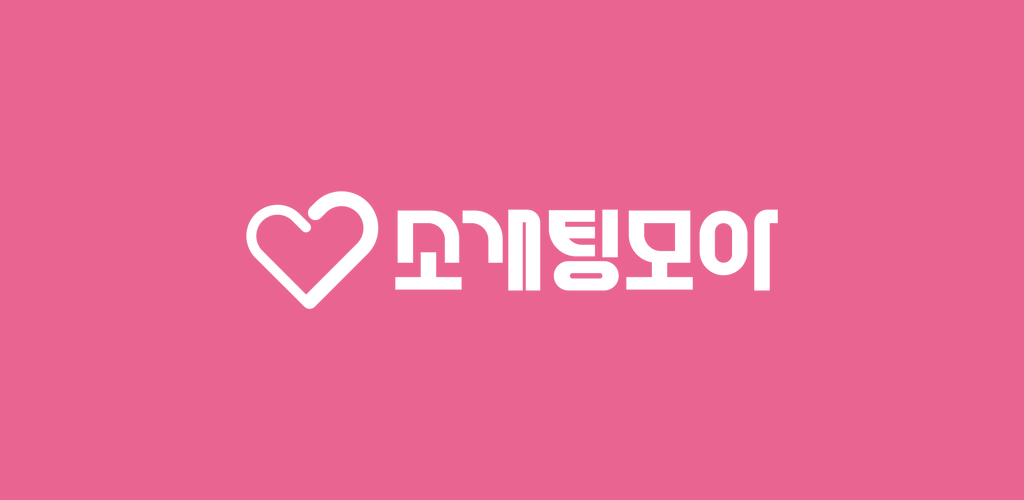
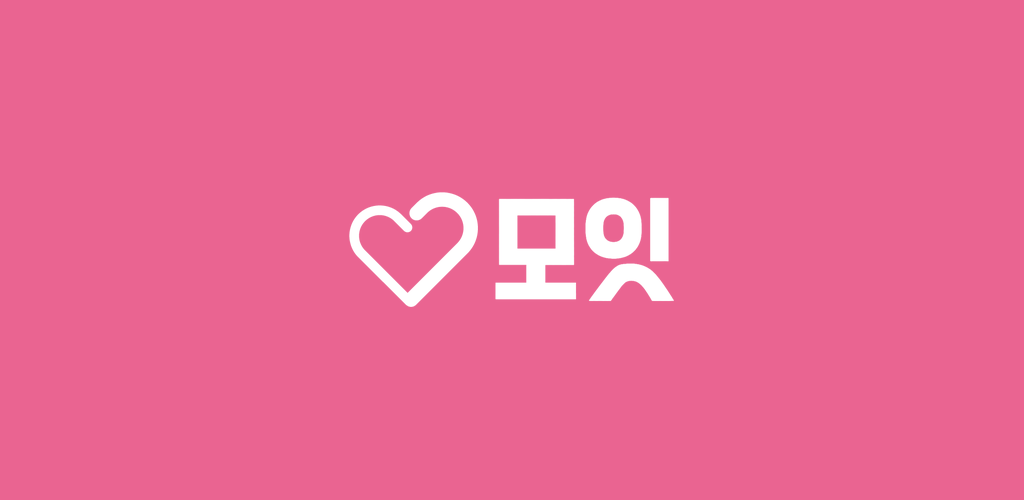
fix(app): 게시글 댓글 입력칸 아래 빈 공간 제거 — 안전영역 중복 계산
입력칸이 insets.bottom 을 더하는데 그 아래 BottomNav 도 같은 값을 더하고
있어서, 입력칸과 탭바 사이에 제스처바 높이만큼 빈 띠가 남았다.
탭바가 안전영역을 책임지므로 입력칸은 고정 여백만 둔다.

Claude-Session: https://claude.ai/code/session_01Sp5oGmYKTR9aBUbVBRnq3q

Changed region(s): [[0.2188, 0.36, 0.7812, 0.63]]

diff --git a/app/app/board/[id].tsx b/app/app/board/[id].tsx
@@ -7,11 +7,10 @@ import {
 // 입력줄만 띄우고 목록을 그대로 두면 아래쪽 댓글이 덮여 손이 닿지 않는다
 // (2026-08-01 오너 지적 후 조사). RN 기본 KeyboardAvoidingView 는 여러 줄 입력에서
 // 동작하지 않으므로(react-native#16826) 이 라이브러리 것을 쓴다.
-import { KeyboardAvoidingView, KeyboardController, KeyboardEvents, useKeyboardState } from 'react-native-keyboard-controller'
+import { KeyboardAvoidingView, KeyboardController, KeyboardEvents } from 'react-native-keyboard-controller'
 import { Image } from 'expo-image'
 import { Ionicons } from '@expo/vector-icons'
 import { useLocalSearchParams, useRouter, useFocusEffect } from 'expo-router'
-import { useSafeAreaInsets } from 'react-native-safe-area-context'
 import TopBar from '@/components/TopBar'
 import BottomNav from '@/components/BottomNav'
 import { confirmScrap } from '@/lib/confirmToggle'
@@ -112,7 +111,6 @@ export default function BoardPostScreen() {
   const { id, commentId } = useLocalSearchParams<{ id: string; commentId?: string }>()
   const router = useRouter()
   const colors = useColors()
-  const insets = useSafeAreaInsets()
   const styles = useMemo(() => makeStyles(colors), [colors])
 
   const { post, postBlocked, comments, myVote, isMine, myCommentIds, loading, error, refetch } = useBoardPost(id)
@@ -131,7 +129,6 @@ export default function BoardPostScreen() {
   const [editing, setEditing] = useState<BoardComment | null>(null)
   const [sending, setSending] = useState(false)
   const [reportTarget, setReportTarget] = useState<{ type: 'post' | 'comment' | 'content'; id: string } | null>(null)
-  const keyboardShown = useKeyboardState((k) => k.isVisible)
   const scrollY = useRef(0)
   const [composing, setComposing] = useState(false)   // 입력칸을 만졌는가(닉네임 줄 펼침)
   // 댓글 입력칸 높이를 직접 정한다. `minHeight` 는 최솟값일 뿐이라 iOS 는 내부
@@ -718,8 +715,13 @@ export default function BoardPostScreen() {
       </ScrollView>
 
       {/* 댓글 입력 — 화면 아래 붙박이. 위 KeyboardAvoidingView 가 키보드만큼 영역을
-          줄여주므로 따로 띄우지 않는다. */}
-      <View style={[styles.inputWrap, { paddingBottom: (keyboardShown ? 8 : insets.bottom + 8) }]}>
+          줄여주므로 따로 띄우지 않는다.
+          ⚠ 안전영역(insets.bottom)을 여기서 더하면 안 된다 — 이 화면은 아래에
+          BottomNav 를 깔고 있고 그 쪽이 이미 안전영역을 먹는다. 예전엔 여기서도
+          더해서 입력칸과 탭바 사이에 제스처바 높이만큼 빈 띠가 생겼다
+          (2026-09-01 오너 지적). 키보드가 올라오면 탭바가 가려지지만 그때도
+          키보드 바로 위에 붙으므로 추가 여백은 필요 없다. */}
+      <View style={[styles.inputWrap, { paddingBottom: 8 }]}>
           {/* 키보드 닫는 버튼은 두지 않는다. 목록을 아래로 쓸어내리면 닫힌다
               (keyboardDismissMode="interactive"). 애플 가이드라인도 키보드 위에는
               '지금 하는 일에 관련된' 컨트롤만 두고 시스템 기능을 겹쳐 놓지 말라고

diff --git a/docs/store-listing.md b/docs/store-listing.md
@@ -62,28 +62,36 @@
 ## 공통 설명 (4,000자 이내)
 
 ```
-소개팅 일정 찾느라 업체마다 들어가 보는 게 번거로우셨나요?
+오늘 나가서 만날 거리, 앱마다 뒤지느라 번거로우셨나요?
 
-모잇은 전국 로테이션 소개팅 업체의 일정을 한곳에 모아 보여줍니다.
-매일 자동으로 새 일정을 수집해 최신 정보를 채워둡니다.
+모잇은 소개팅 일정부터 취미 모임, 혼자 마시기 좋은 술집까지
+흩어져 있는 것들을 한곳에 모아 보여줍니다.
+매일 자동으로 새 정보를 수집해 최신 상태로 채워둡니다.
 
 
-▪ 한눈에 모아보기
-서울·경기·인천·충청 등 전국 업체 일정을 한 화면에서 확인하세요.
-
-▪ 조건으로 걸러보기
-지역, 날짜, 나이대, 가격, 요일, 시간대로 원하는 일정만 골라 봅니다.
+▪ 소개팅
+전국 로테이션 소개팅 업체의 일정을 한 화면에서.
+지역·날짜·나이대·가격·요일·시간대로 원하는 일정만 골라 봅니다.
 내 나이·성별을 입력하면 참가 가능한 일정만 추려서 보여드려요.
 
-▪ 새 일정 알림
+▪ 소셜링
+독서·러닝·보드게임 같은 취미 모임을 모아 봅니다.
+날짜와 지역, 정원과 참여 인원까지 한눈에 확인하세요.
+
+▪ 혼술바
+혼자 마시기 좋은 술집을 지도와 목록으로.
+영업시간·편의시설·평점을 미리 보고, 내 주변 가까운 순으로 찾아보세요.
+
+▪ 커뮤니티
+같은 또래끼리 후기와 고민을 나누는 게시판.
+사진·영상도 올리고, 새 글은 알림으로 받아볼 수 있습니다.
+
+▪ 새 소식 알림
 관심 지역과 태그를 등록해두면 조건에 맞는 새 일정이 올라올 때 알려드립니다.
 마감이 다가오는 일정도 놓치지 않게 미리 알려드려요.
 
-▪ 관심 목록
-마음에 드는 일정은 하트를 눌러 저장해두고 나중에 다시 확인하세요.
-
-▪ 참가 후기
-실제 참가자들이 남긴 후기와, 블로그·인스타그램·유튜브에 올라온 후기를 함께 모아 보여드립니다.
+▪ 즐겨찾기
+마음에 드는 일정과 매장은 저장해두고 나중에 다시 확인하세요.
 
 ▪ 바로 신청
 마음에 드는 일정을 찾았다면 한 번의 터치로 업체 신청 페이지로 이동합니다.
